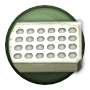
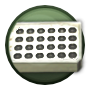
[FIX] inventory layout

diff --git a/app/css/view/_menu.scss b/app/css/view/_menu.scss
@@ -1,5 +1,3 @@
-/* view/menu.scss */
-
 .hud {
     line-height: 0;
 
@@ -56,8 +54,8 @@
         width: 96px;
 
         img {
-            margin: 6px;
             height: 84px;
+            margin: 6px;
             width: 84px;
         }
     }
@@ -79,74 +77,72 @@
         margin-left: $spacer;
         margin-top: $spacer;
     }
+}
 
-    .inventory-container {
-        float: left;
-        height: 100px;
-        position: relative;
-        margin-left: 15px;
+.inventory-container {
+    float: left;
+    height: 100px;
+    margin-left: 15px;
+    position: relative;
 
-        .arrow-left, .arrow-right {
-            position: absolute;
-            cursor: pointer;
-
-            width: 48px;
-            height: 80px;
-            top: 19px;
-        }
-
-        .arrow-left {
-            left: -5px;
-        }
-
-        .arrow-right {
-            left: 510px;
-        }
-
-        .inventory {
-            @include gradient-bg(#38363c, #54565a);
-            @include border(solid, 2px, #1c1b1e, 45px);
-
-            position: absolute;
-            left: 20px;
-            margin: 13px 0 0 30px;
-            width: 448px;
-            height: 90px;
-            overflow: hidden;
-
-            ul {
-                display: block;
-                position: relative;
-                top: 5px;
-                left: 0;
-                padding: 0;
-                margin-left: 3px;
-
-                height: 90px;
-                list-style-type: none;
-                white-space: nowrap;
-
-                li {
-                    display: inline-block;
-                    width: 80px;
-                    height: 80px;
-                    margin-left: 4px;
-
-                    div {
-                        position: relative;
-                        height: 80px;
-
-                        img {
-                            position: absolute;
-                            bottom: 0;
-                        }
-                    }
-                }
-            }
-        }
+    .arrow-left, .arrow-right {
+        cursor: pointer;
+        height: 80px;
+        position: absolute;
+        top: 19px;
+        width: 48px;
     }
 
+    .arrow-left {
+        left: -5px;
+    }
+
+    .arrow-right {
+        left: 510px;
+    }
 }
+
+.inventory {
+    @include gradient-bg(#38363c, #54565a);
+    @include border(solid, 2px, #1c1b1e, 45px);
+    height: $inventory-icon-size;
+    left: 20px;
+    margin: 13px 0 0 30px;
+    overflow: hidden;
+    position: absolute;
+    width: 448px;
+
+    ul {
+        display: block;
+        height: $inventory-icon-size;
+        left: 0;
+        list-style-type: none;
+        margin-left: 8px;
+        padding: 0;
+        position: relative;
+        white-space: nowrap;
+    }
+
+    li {
+        display: inline-block;
+        height: $inventory-icon-size;
+        margin-left: -4px;
+        margin-right: -3px;
+        width: $inventory-icon-size;
+
+        div {
+            height: $inventory-icon-size;
+            position: relative;
+
+        }
+
+        img {
+            bottom: 0;
+            position: absolute;
+        }
+    }
+}
+
 
 .menu-right-links {
     float: right;
@@ -154,21 +150,21 @@
     overflow: hidden;
 
     ul {
-        padding: 0;
-        margin: 0;
-        list-style: none;
         line-height: 0;
+        list-style: none;
+        margin: 0;
+        padding: 0;
     }
 
     li {
         display: inline-block;
-        vertical-align: middle;
         margin: 0 5px;
+        vertical-align: middle;
     }
 
     img {
+        height: 100px;
         pointer-events: none;
         width: 100px;
-        height: 100px;
     }
 }

diff --git a/app/css/popup/_list.scss b/app/css/popup/_list.scss
@@ -1,26 +1,24 @@
-/* popup/list.scss */
-
 .popup-list {
     left: $popup-wide-margin;
     right: $popup-wide-margin;
 
     ul {
+        margin-top: 30px;
         padding: 0 0px;
         text-align: center;
-        margin-top: 30px;
+    }
 
-        li {
-            margin: 0 10px 20px 10px;
-            list-style: none;
-            text-align: center;
-            display: inline-block;
-            width: 120px;
-            vertical-align: top;
+    li {
+        display: inline-block;
+        list-style: none;
+        margin: 0 10px 20px;
+        text-align: center;
+        vertical-align: top;
+        width: 120px;
 
-            img {
-                height: 80px;
-                width: 80px;
-            }
+        img {
+            height: $inventory-icon-size;
+            width: $inventory-icon-size;
         }
     }
 }

diff --git a/app/css/_variables.scss b/app/css/_variables.scss
@@ -33,3 +33,4 @@ $white: #fff;
 $spacer: 10px;
 $material-icon: 48px;
 $radius: 5px;
+$inventory-icon-size: 90px;
